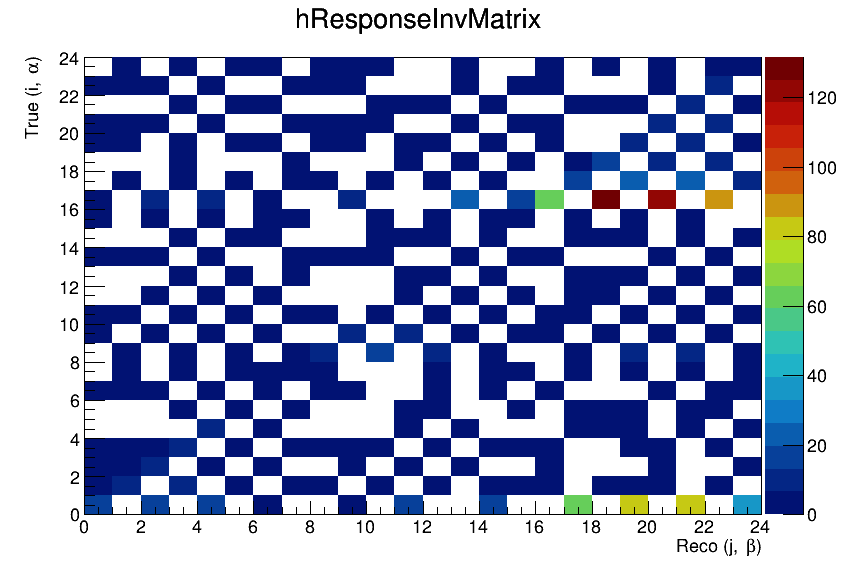
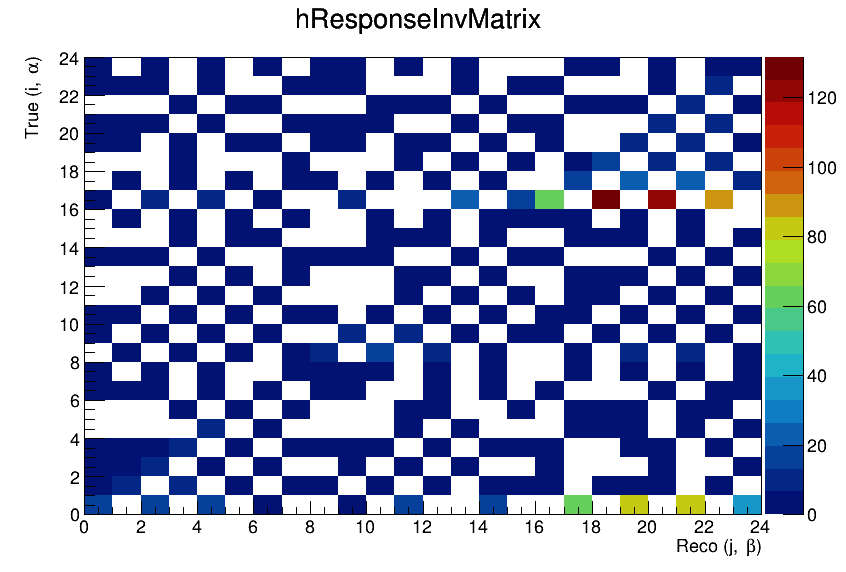
Bring back Wiener SVD machinery

diff --git a/Helpers.cc b/Helpers.cc
@@ -1240,6 +1240,21 @@ std::pair<size_t, size_t> find_unique_position(const std::vector<std::vector<int
     return {0, 0}; // unreachable, but silences warnings in some builds
 }
 
+bool EqualApprox(const TMatrixD& A, const TMatrixD& B, double rtol, double atol) {
+    if (A.GetNrows() != B.GetNrows() || A.GetNcols() != B.GetNcols()) return false;
+
+    for (int i = 0; i < A.GetNrows(); ++i) {
+        for (int j = 0; j < A.GetNcols(); ++j) {
+            const double a = A(i,j);
+            const double b = B(i,j);
+            const double diff = std::fabs(a - b);
+            const double scale = atol + rtol * std::max(std::fabs(a), std::fabs(b));
+            if (diff > scale) return false;
+        }
+    }
+    return true;
+}
+
 ///////////////
 // WC checks //
 ///////////////
@@ -1358,8 +1373,7 @@ TVectorD WienerSVD(
     TVectorD& WF,          //
     TMatrixD& UnfoldCov,   //
     TMatrixD& CovRotation,  //
-    TMatrixD& AddSmearInverse, 
-    bool filterOff
+    TMatrixD& AddSmearInverse
 ) {
     Int_t m = Response.GetNrows(); // measure, M
     Int_t n = Response.GetNcols(); // signal, S
@@ -1397,7 +1411,6 @@ TVectorD WienerSVD(
         }
     }
     C0 = C0*normsig;
-
     if (C_type == 0 && Norm_type == 0) C0.UnitMatrix();
 
     TMatrixD C = C0;
@@ -1423,17 +1436,6 @@ TVectorD WienerSVD(
             }
         }
     }
-    // for matrix D inverse
-    TMatrixD D_inv(n, m);
-    for (Int_t i = 0; i<n; i++) {
-        for (Int_t j = 0; j<m; j++) {
-            D_inv(i,j) = 0.;
-            if (i == j) {
-                if (D(i) > 0) D_inv(i,j) = 1.0 / D(i);
-                else          D_inv(i,j) = 0.0;
-            }
-        }
-    }
 
     TVectorD S = V_t*Signal;
     // Wiener Filter
@@ -1444,17 +1446,13 @@ TVectorD WienerSVD(
             W(i, j)  = 0;
             W0(i, j) = 0;
             if(i == j) {
-                if (filterOff) {
-                    WF(i)    = 1.;
-                    W0(i, j) = WF(i);
-                    W(i, j)  = 1. / (D(i) * D(i));
+                if (Norm_type == 0 && C_type == 0) {
+                    W(i, j) = 1. / (D(i)*D(i)); // removed 2e-7 tolerance
                 } else {
-                    //W(i, j) = 1./(D(i)*D(i)+2e-7); //S(i)*S(i) / ( D(i)*D(i)*S(i)*S(i)+1 );
-                    //WF(i) = D(i)*D(i)*W(i, j);//S(i)*S(i) / ( D(i)*D(i)*S(i)*S(i)+1 );
-                    W(i, j)  = S(i)*S(i) / ( D(i)*D(i)*S(i)*S(i)+1 );
-                    WF(i)    = D(i)*D(i)*W(i, j);
-                    W0(i, j) = WF(i);
+                    W(i, j) = S(i)*S(i) / ( D(i)*D(i)*S(i)*S(i)+1 );
                 }
+                WF(i)    = D(i)*D(i)*W(i, j);
+                W0(i, j) = WF(i);
             }
         }
     }
@@ -1468,18 +1466,10 @@ TVectorD WienerSVD(
     TVectorD unfold(n);
     TMatrixD covRotation(n,m);
 
-    if (filterOff) {
-        // If filter off, rather not multiply really small/large numbers
-        AddSmearInverse = C_inv * V * V_t * C; // = I
-        AddSmear        = C_inv * V * V_t * C; // = I
-        unfold          = C_inv * V * D_inv * U_t * M;
-        covRotation     = C_inv * V * D_inv * U_t * Q;
-    } else {
-        AddSmearInverse = C_inv * V * W0_inv * V_t * C;
-        AddSmear        = C_inv * V * W0 * V_t * C;
-        unfold          = C_inv * V * W * D_t * U_t * M;
-        covRotation     = C_inv * V * W * D_t * U_t * Q;
-    }
+    AddSmearInverse = C_inv * V * W0_inv * V_t * C;
+    AddSmear        = C_inv * V * W0 * V_t * C;
+    unfold          = C_inv * V * W * D_t * U_t * M;
+    covRotation     = C_inv * V * W * D_t * U_t * Q;
 
     CovRotation = covRotation;
     TMatrixD covRotation_t (TMatrixD::kTransposed, covRotation); 

diff --git a/RecoClassify3Cat.cc b/RecoClassify3Cat.cc
@@ -2328,6 +2328,15 @@ void RecoClassify3Cat() {
         }
     }
 
+    // Construct large signal vector
+    TVectorD Signal(NUM_SIGNAL_TYPES * NUM_BINS_KE);
+    for (int iSignal = 0; iSignal < NUM_SIGNAL_TYPES; ++iSignal) {
+        for (int iBin = 0; iBin < NUM_BINS_KE; ++iBin) {
+            int index     = flattenIndex(iSignal, iBin, NUM_BINS_KE);
+            Signal(index) = TotalEventsHistos[iSignal]->GetBinContent(iBin + 1);
+        }
+    }
+
     // Save nominal measure vector and response matrix
     TH1D* hMeasureVectorNominal = new TH1D("hMeasureVectorNominal", "hMeasureVectorNominal;;", NUM_SIGNAL_TYPES * NUM_BINS_KE, 0, NUM_SIGNAL_TYPES * NUM_BINS_KE); V2H(Measure, hMeasureVectorNominal);
 
@@ -2356,14 +2365,34 @@ void RecoClassify3Cat() {
     TMatrixD Response(NUM_SIGNAL_TYPES * NUM_BINS_KE, NUM_SIGNAL_TYPES * NUM_BINS_KE); 
     H2M(static_cast<const TH2D*>(hResponseMatrix), Response, kTRUE);
 
-    // Invert response matrix with SVD
+    // Objects to store stuff
+    TMatrixD AddSmear(NUM_SIGNAL_TYPES * NUM_BINS_KE, NUM_SIGNAL_TYPES * NUM_BINS_KE);
+    TMatrixD AddSmearInverse(NUM_SIGNAL_TYPES * NUM_BINS_KE, NUM_SIGNAL_TYPES * NUM_BINS_KE);
+    TVectorD WF(NUM_SIGNAL_TYPES * NUM_BINS_KE);
+    TMatrixD UnfoldCov(NUM_SIGNAL_TYPES * NUM_BINS_KE, NUM_SIGNAL_TYPES * NUM_BINS_KE);
+    TMatrixD CovRotation(NUM_SIGNAL_TYPES * NUM_BINS_KE, NUM_SIGNAL_TYPES * NUM_BINS_KE);
+
+    // Invert response matrix with Wiener-SVD w/o regularization
+    TVectorD UnfoldedReco = WienerSVD(
+        Response,
+        Signal,
+        Measure,
+        Covariance,
+        0, // 0: unit, 2: second derivative
+        0, // smoothing parameter
+        AddSmear,
+        WF,
+        UnfoldCov,
+        CovRotation,
+        AddSmearInverse
+    );
+
+    // Sanity check: CovRotation = RInv?
     TDecompSVD svd(Response); svd.SetTol(1e-8);
     TMatrixD Rinv = svd.Invert();
-    TMatrixD RinvT(TMatrixD::kTransposed, Rinv);
-
-    // Unfold selected events
-    TVectorD UnfoldedReco = Rinv * Measure;
-    TMatrixD UnfoldCov    = Rinv * Covariance * RinvT;
+    if (!EqualApprox(CovRotation, Rinv, 1e-8, 1e-8)) {
+        std::cerr << "Warning: CovRotation matrix does not match the inverse of the response matrix within tolerance." << std::endl;
+    }
 
     // Organize results
     std::vector<TH1*> UnfoldedRecoHistos;
@@ -2395,7 +2424,7 @@ void RecoClassify3Cat() {
     TH2D* hResponseInvMatrix = new TH2D("hResponseInvMatrix", "hResponseInvMatrix;Reco (j, #beta);True (i, #alpha)",
         NUM_SIGNAL_TYPES * NUM_BINS_KE, 0, NUM_SIGNAL_TYPES * NUM_BINS_KE,
         NUM_SIGNAL_TYPES * NUM_BINS_KE, 0, NUM_SIGNAL_TYPES * NUM_BINS_KE
-    ); M2H(Rinv, hResponseInvMatrix);
+    ); M2H(CovRotation, hResponseInvMatrix);
 
     ///////////////////////////////////////////////
     // Get cross-section using corrrected fluxes //

diff --git a/Helpers.h b/Helpers.h
@@ -330,6 +330,8 @@ std::vector<double> getAverageDir(const std::vector<double>& points);
 
 std::pair<size_t, size_t> find_unique_position(const std::vector<std::vector<int>>* v, int n);
 
+bool EqualApprox(const TMatrixD& A, const TMatrixD& B, double rtol = 1e-12, double atol = 1e-15);
+
 ///////////////
 // WC checks //
 ///////////////
@@ -350,7 +352,7 @@ TMatrixD Matrix_C(Int_t n, Int_t type);
 //   - AddSmear is additional smearing matrix after unfolding
 //   - WF is the elements of Wiener Filter
 //   - Covariance matrix of the unfolded spectrum
-TVectorD WienerSVD(TMatrixD Response, TVectorD Signal, TVectorD Measure, TMatrixD Covariance, Int_t C_type, Float_t Norm_type, TMatrixD& AddSmear, TVectorD& WF, TMatrixD& UnfoldCov, TMatrixD& CovRotation, TMatrixD& AddSmearInverse, bool filterOff = false);
+TVectorD WienerSVD(TMatrixD Response, TVectorD Signal, TVectorD Measure, TMatrixD Covariance, Int_t C_type, Float_t Norm_type, TMatrixD& AddSmear, TVectorD& WF, TMatrixD& UnfoldCov, TMatrixD& CovRotation, TMatrixD& AddSmearInverse);
 
 /////////////////
 // Systematics //
